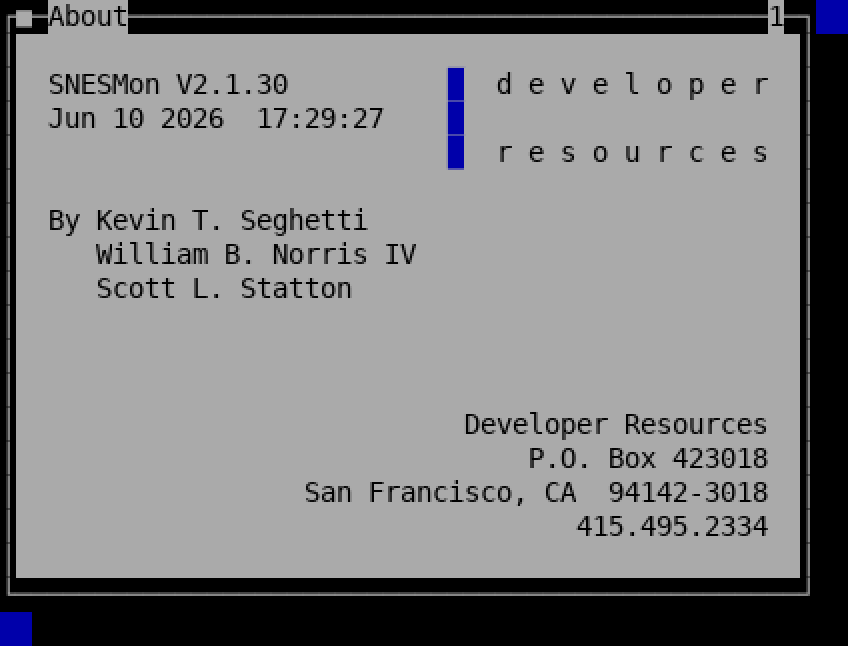
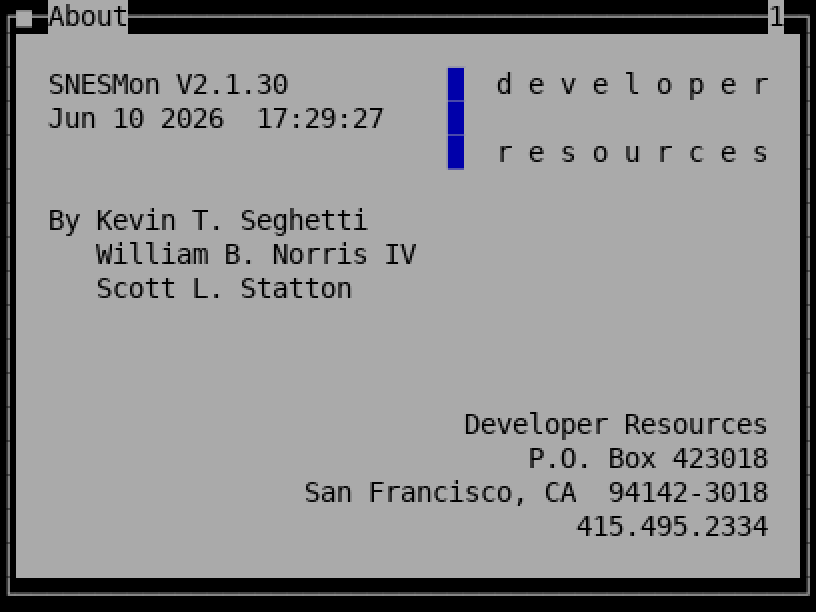
docs(drmon): crop screenshots to box-drawing border, not background colour
Replace the background-colour + shadow-strip heuristic with a direct scan
for Unicode box-drawing characters (U+2500–U+257F): the bounding box of those
chars is the exact window extent. Shadow and desktop cells outside the border
are excluded automatically, with no per-case tuning needed. Keeps the old
background-colour path as a fallback for any window without a box border.

Changed region(s): [[0.0, 0.0, 1.0, 1.0], [0.0613, 0.3105, 0.5208, 0.4967], [0.0613, 0.0931, 0.4902, 0.2173]]

diff --git a/devsys/tools/drmon/linux/render_ansi.py b/devsys/tools/drmon/linux/render_ansi.py
@@ -32,6 +32,11 @@ DEFAULT_BG  = PALETTE[0]           # black  — window/title background
 DESKTOP_BG  = PALETTE[4]           # blue   — drmon desktop, always this colour
 
 
+def _is_box(ch):
+    """True for Unicode box-drawing characters U+2500–U+257F."""
+    return bool(ch) and 0x2500 <= ord(ch) < 0x2580
+
+
 def parse_ansi(text):
     rows, row = [], []
     fg, bg, bold = DEFAULT_FG, DEFAULT_BG, False
@@ -88,11 +93,6 @@ def parse_ansi(text):
     return rows
 
 
-def _is_shadow_strip(cells):
-    """True if every cell is black+space — the drmon drop-shadow pattern."""
-    return all(bg == DEFAULT_BG and ch == ' ' for ch, _, bg in cells)
-
-
 def render(ansi_file, out_file, scale=2):
     with open(ansi_file, 'r', encoding='utf-8', errors='replace') as f:
         text = f.read()
@@ -111,11 +111,13 @@ def render(ansi_file, out_file, scale=2):
     padded = [list(r) + [(' ', DEFAULT_FG, DESKTOP_BG)] * (n_cols - len(r))
               for r in rows]
 
-    # --- bounding box of non-desktop cells (skip menu bar row 0 + status bar) ---
+    # --- crop to the bounding box of box-drawing border characters ---
+    # Box-drawing chars (U+2500–U+257F) mark the exact window extent; everything
+    # outside them is desktop or drop-shadow and should be excluded.
     r1 = r2 = c1 = c2 = None
     for ri in range(1, len(padded) - 1):
         for ci in range(n_cols):
-            if padded[ri][ci][2] != DESKTOP_BG:
+            if _is_box(padded[ri][ci][0]):
                 if r1 is None:
                     r1 = ri
                 r2 = ri
@@ -124,16 +126,21 @@ def render(ansi_file, out_file, scale=2):
                 if c2 is None or ci > c2:
                     c2 = ci
 
+    # Fallback: no box-drawing found — crop to non-desktop bounding box
+    if r1 is None:
+        for ri in range(1, len(padded) - 1):
+            for ci in range(n_cols):
+                if padded[ri][ci][2] != DESKTOP_BG:
+                    if r1 is None:
+                        r1 = ri
+                    r2 = ri
+                    if c1 is None or ci < c1:
+                        c1 = ci
+                    if c2 is None or ci > c2:
+                        c2 = ci
+
     if r1 is None:
         r1, r2, c1, c2 = 1, len(padded) - 2, 0, n_cols - 1
-
-    # --- strip drop shadow (all-black+space strips on right and bottom edges) ---
-    while r2 > r1 and _is_shadow_strip(
-            [padded[r2][ci] for ci in range(c1, c2 + 1)]):
-        r2 -= 1
-    while c2 > c1 and _is_shadow_strip(
-            [padded[ri][c2] for ri in range(r1, r2 + 1)]):
-        c2 -= 1
 
     crop = [padded[ri][c1:c2 + 1] for ri in range(r1, r2 + 1)]
     n_rows_out = len(crop)

diff --git a/devsys/tools/drmon/docs/drmon-manual.md b/devsys/tools/drmon/docs/drmon-manual.md
@@ -62,7 +62,7 @@ global keys are in the [Key reference](#key-reference).
 Examine memory as bytes, words, long words, ASCII, or disassembled code. Navigate with the
 arrows / PgUp / PgDn. *(values read as zero until a backend is wired)*
 
-<img src="img/memory.png" width="352">
+<img src="img/memory.png" width="336">
 
 | Key | Action | | Key | Action |
 |-----|--------|---|-----|--------|
@@ -78,12 +78,12 @@ View and set the current 65816 registers (A, X, Y, P/flags, D, DB, PB, SP, PC); 
 individually. Click a register to open an Expression window prompting for a new value.
 *(live values need a backend)*
 
-<img src="img/register.png" width="224">
+<img src="img/register.png" width="208">
 
 ### Breakpoint — `Alt+B` (single)
 List and manage breakpoints.
 
-<img src="img/breakpoint.png" width="168">
+<img src="img/breakpoint.png" width="160">
 
 | Key | Action |
 |-----|--------|
@@ -125,19 +125,19 @@ A calculator for symbols and expressions; results show in **hex, decimal, and bi
 first matching symbol. See [Expression language](#expression-language). No menu; results can be
 copied and pasted into other input fields.
 
-<img src="img/expression.png" width="480">
+<img src="img/expression.png" width="464">
 
 ### Command — `Alt+K` (single)
 Type [console commands](#console-command-language); responses print here. More powerful than
 keyboard macros, with scripting (`.scr`). **↑/↓** walk the command history.
 
-<img src="img/command.png" width="616">
+<img src="img/command.png" width="600">
 
 ### Source — `Alt+L` (single)
 Source-level debugging: load a `.sld` file (`Ctrl+L`) to view the source the code was assembled
 from and set breakpoints by line.
 
-<img src="img/source.png" width="624">
+<img src="img/source.png" width="600">
 
 | Key | Action |
 |-----|--------|
@@ -152,7 +152,7 @@ from and set breakpoints by line.
 ### Text View — `Alt+T`
 A generic text-file viewer. Arrows move the cursor; PgUp/PgDn page.
 
-<img src="img/textview.png" width="624">
+<img src="img/textview.png" width="600">
 
 | Key | Action |
 |-----|--------|
@@ -170,7 +170,7 @@ it. *(empty until a backend is wired)*
 ### ASCII chart — `Alt+Y`
 A reference table of character codes (decimal / hex / the CP437 glyph).
 
-<img src="img/ascii.png" width="416">
+<img src="img/ascii.png" width="400">
 
 ### Project Info — `Alt+I` (single)
 Shows free memory and symbol counts.
@@ -180,7 +180,7 @@ Shows free memory and symbol counts.
 ### About — `Alt+A`
 Shows version and credits.
 
-<img src="img/about.png" width="424">
+<img src="img/about.png" width="408">
 
 ### Help — `F1`
 The built-in `snesmon.hlp` key card, shown in a Text View window.
